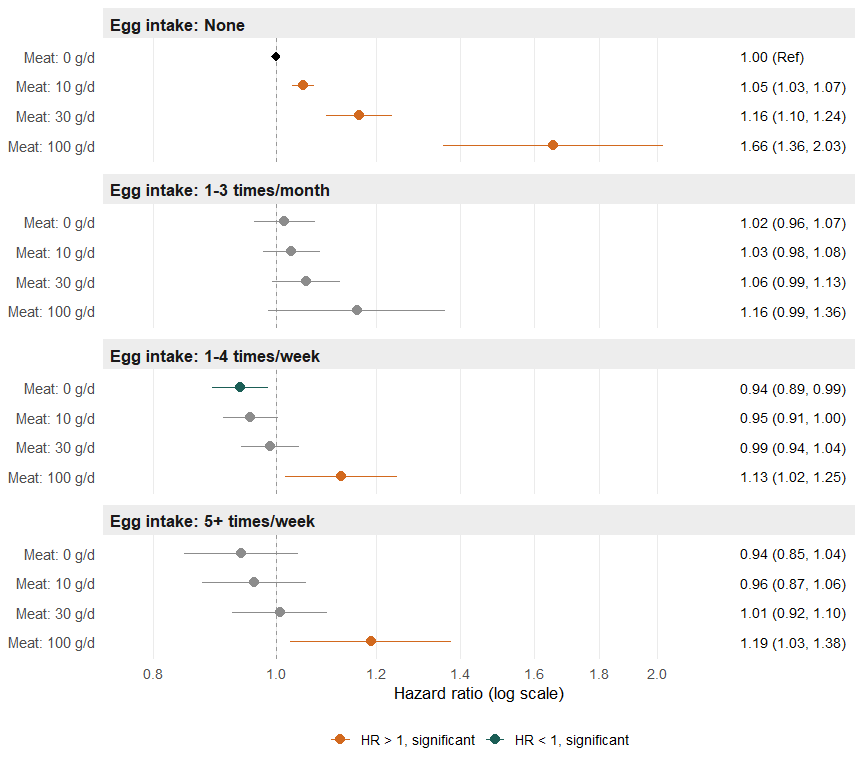
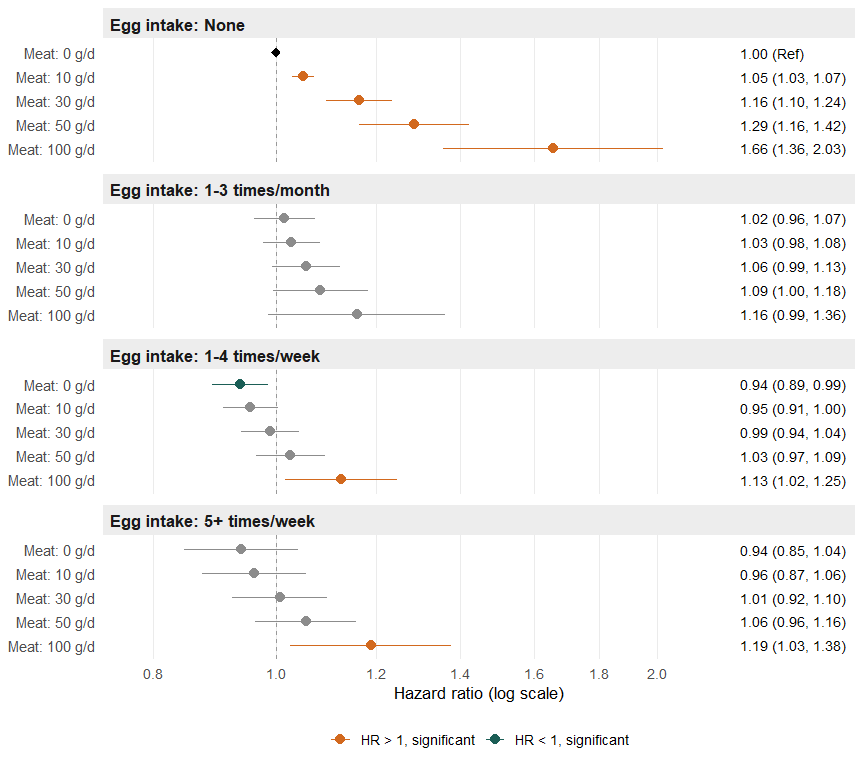
Add meat intake value of 50 g/d

diff --git a/summary.md b/summary.md
@@ -557,6 +557,40 @@ P-trend (egg)
 
 <td style="text-align:left;">
 
+50
+</td>
+
+<td style="text-align:center;">
+
+1.29 (1.16, 1.42)
+</td>
+
+<td style="text-align:center;">
+
+1.09 (1.00, 1.18)
+</td>
+
+<td style="text-align:center;">
+
+1.03 (0.97, 1.09)
+</td>
+
+<td style="text-align:center;">
+
+1.06 (0.96, 1.16)
+</td>
+
+<td style="text-align:center;">
+
+0.0017
+</td>
+
+</tr>
+
+<tr>
+
+<td style="text-align:left;">
+
 100
 </td>
 
@@ -809,6 +843,40 @@ P-trend
 
 <td style="text-align:left;">
 
+50
+</td>
+
+<td style="text-align:center;">
+
+1.00 (Ref)
+</td>
+
+<td style="text-align:center;">
+
+0.84 (0.75, 0.95)
+</td>
+
+<td style="text-align:center;">
+
+0.80 (0.72, 0.88)
+</td>
+
+<td style="text-align:center;">
+
+0.82 (0.73, 0.93)
+</td>
+
+<td style="text-align:center;">
+
+0.0017
+</td>
+
+</tr>
+
+<tr>
+
+<td style="text-align:left;">
+
 100
 </td>
 
@@ -1013,6 +1081,35 @@ None
 
 <td style="text-align:left;">
 
+50
+</td>
+
+<td style="text-align:center;">
+
+1.00 (Ref)
+</td>
+
+<td style="text-align:center;">
+
+0.84 (0.75, 0.95)
+</td>
+
+<td style="text-align:center;">
+
+0.79 (0.72, 0.88)
+</td>
+
+<td style="text-align:center;">
+
+0.81 (0.72, 0.92)
+</td>
+
+</tr>
+
+<tr>
+
+<td style="text-align:left;">
+
 100
 </td>
 
@@ -1180,6 +1277,35 @@ None
 <td style="text-align:center;">
 
 0.88 (0.80, 0.97)
+</td>
+
+</tr>
+
+<tr>
+
+<td style="text-align:left;">
+
+50
+</td>
+
+<td style="text-align:center;">
+
+1.00 (Ref)
+</td>
+
+<td style="text-align:center;">
+
+0.84 (0.75, 0.95)
+</td>
+
+<td style="text-align:center;">
+
+0.80 (0.72, 0.89)
+</td>
+
+<td style="text-align:center;">
+
+0.83 (0.74, 0.94)
 </td>
 
 </tr>
@@ -1395,6 +1521,40 @@ P-trend
 <td style="text-align:center;">
 
 0.0005
+</td>
+
+</tr>
+
+<tr>
+
+<td style="text-align:left;">
+
+50
+</td>
+
+<td style="text-align:center;">
+
+1.00 (Ref)
+</td>
+
+<td style="text-align:center;">
+
+0.84 (0.75, 0.95)
+</td>
+
+<td style="text-align:center;">
+
+0.80 (0.72, 0.89)
+</td>
+
+<td style="text-align:center;">
+
+0.82 (0.72, 0.93)
+</td>
+
+<td style="text-align:center;">
+
+0.0030
 </td>
 
 </tr>
